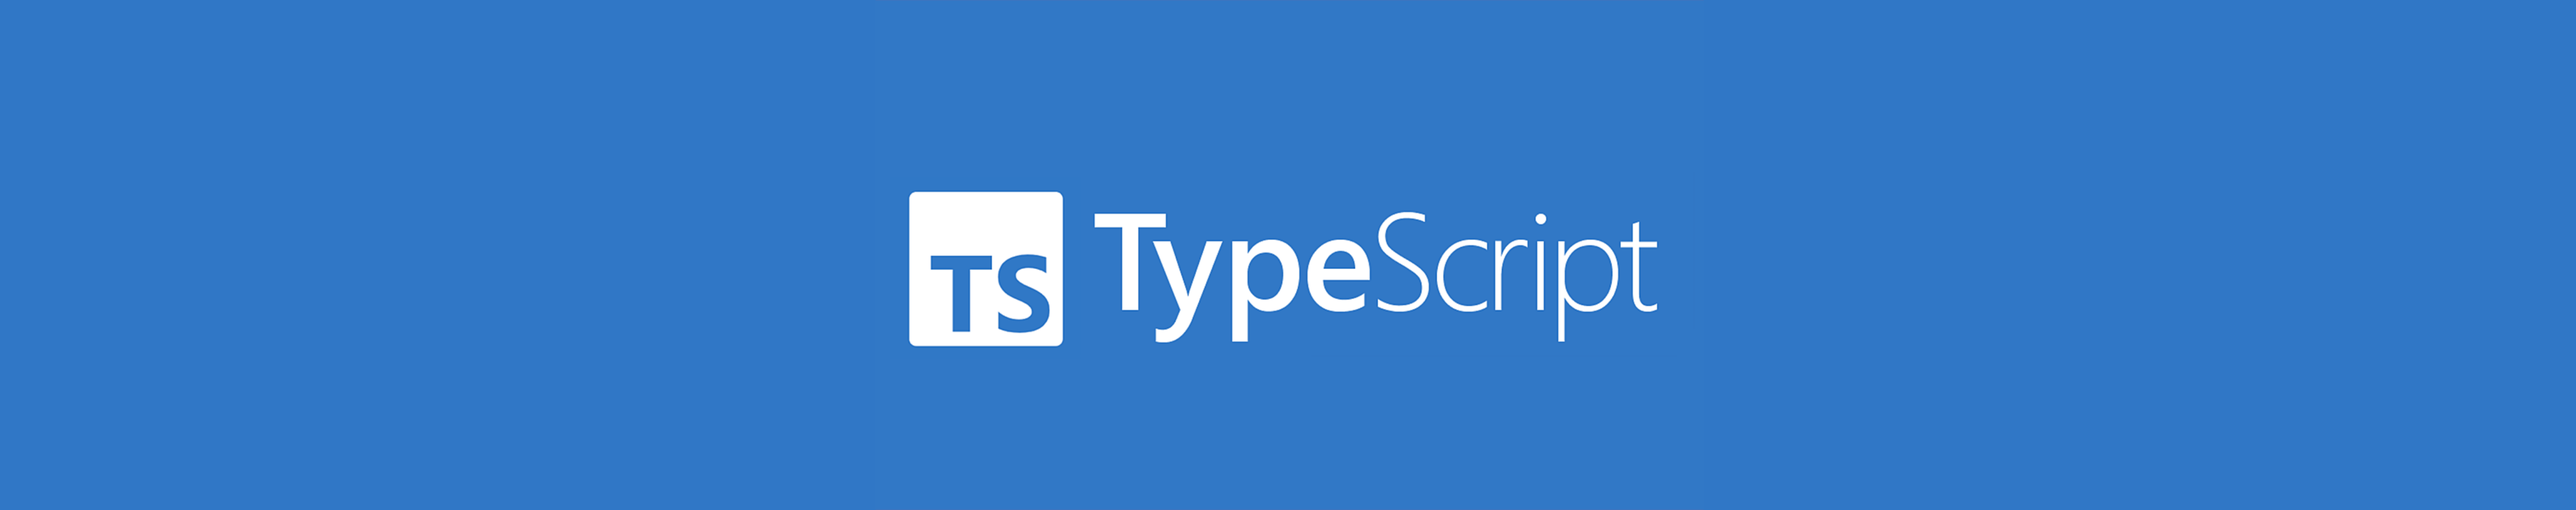
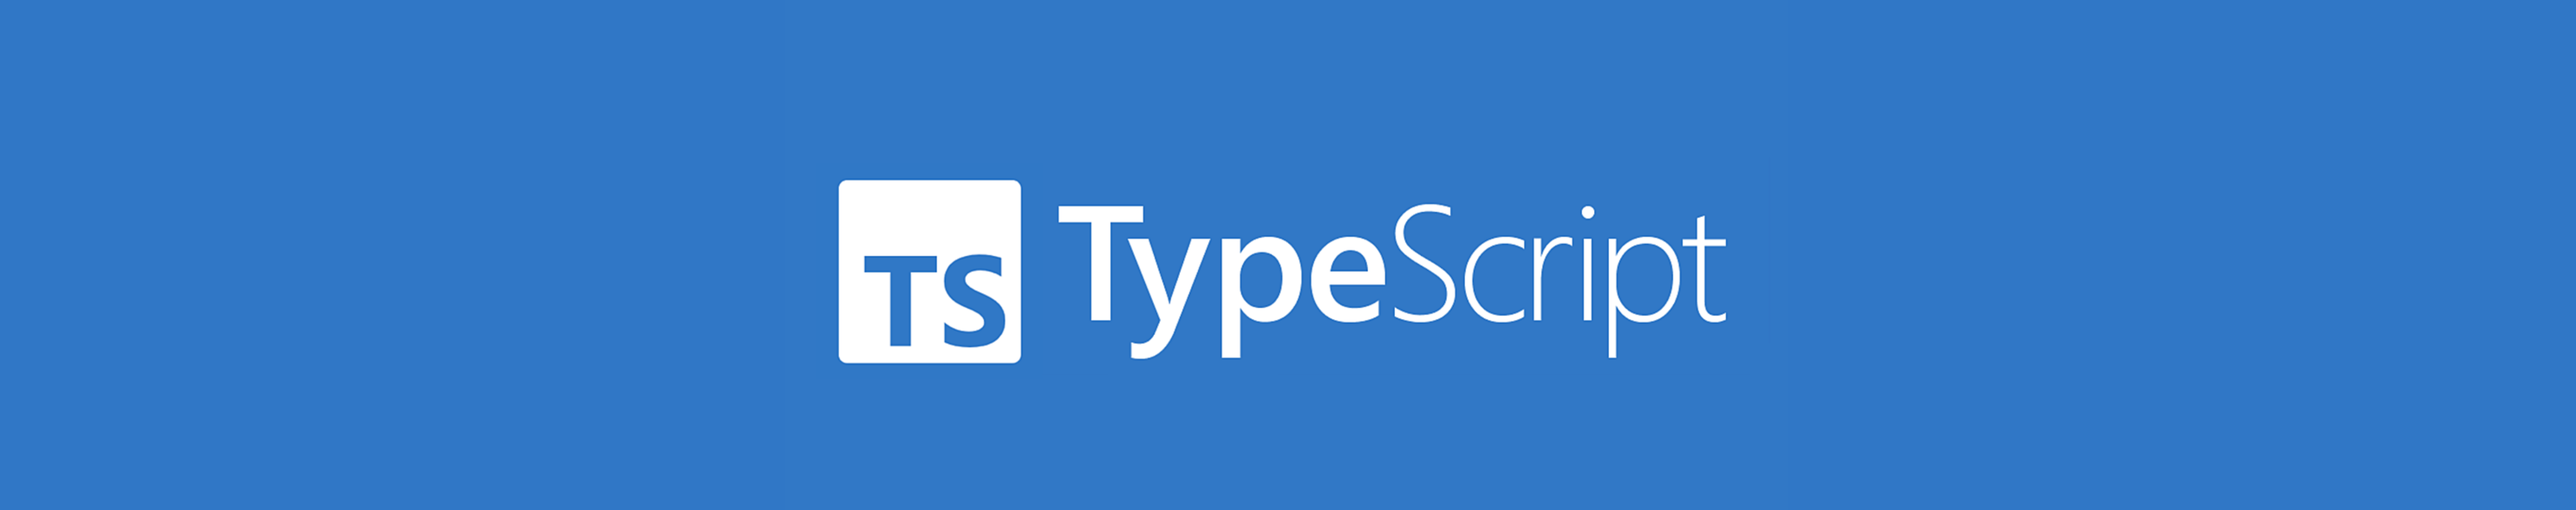
Update README

Changed region(s): [[0.3119, 0.34, 0.6863, 0.7109], [0.5927, 0.4018, 0.6239, 0.4327]]

diff --git a/02-typescript/README.md b/02-typescript/README.md
@@ -1,5 +1,5 @@
 <p align="center">
-  <img src="../assets/typescript2.png">
+  <img src="../assets/typescript.png">
 </p>
 
 # <img src="https://skillicons.dev/icons?i=typescript&theme=dark" width="50"> TypeScript
